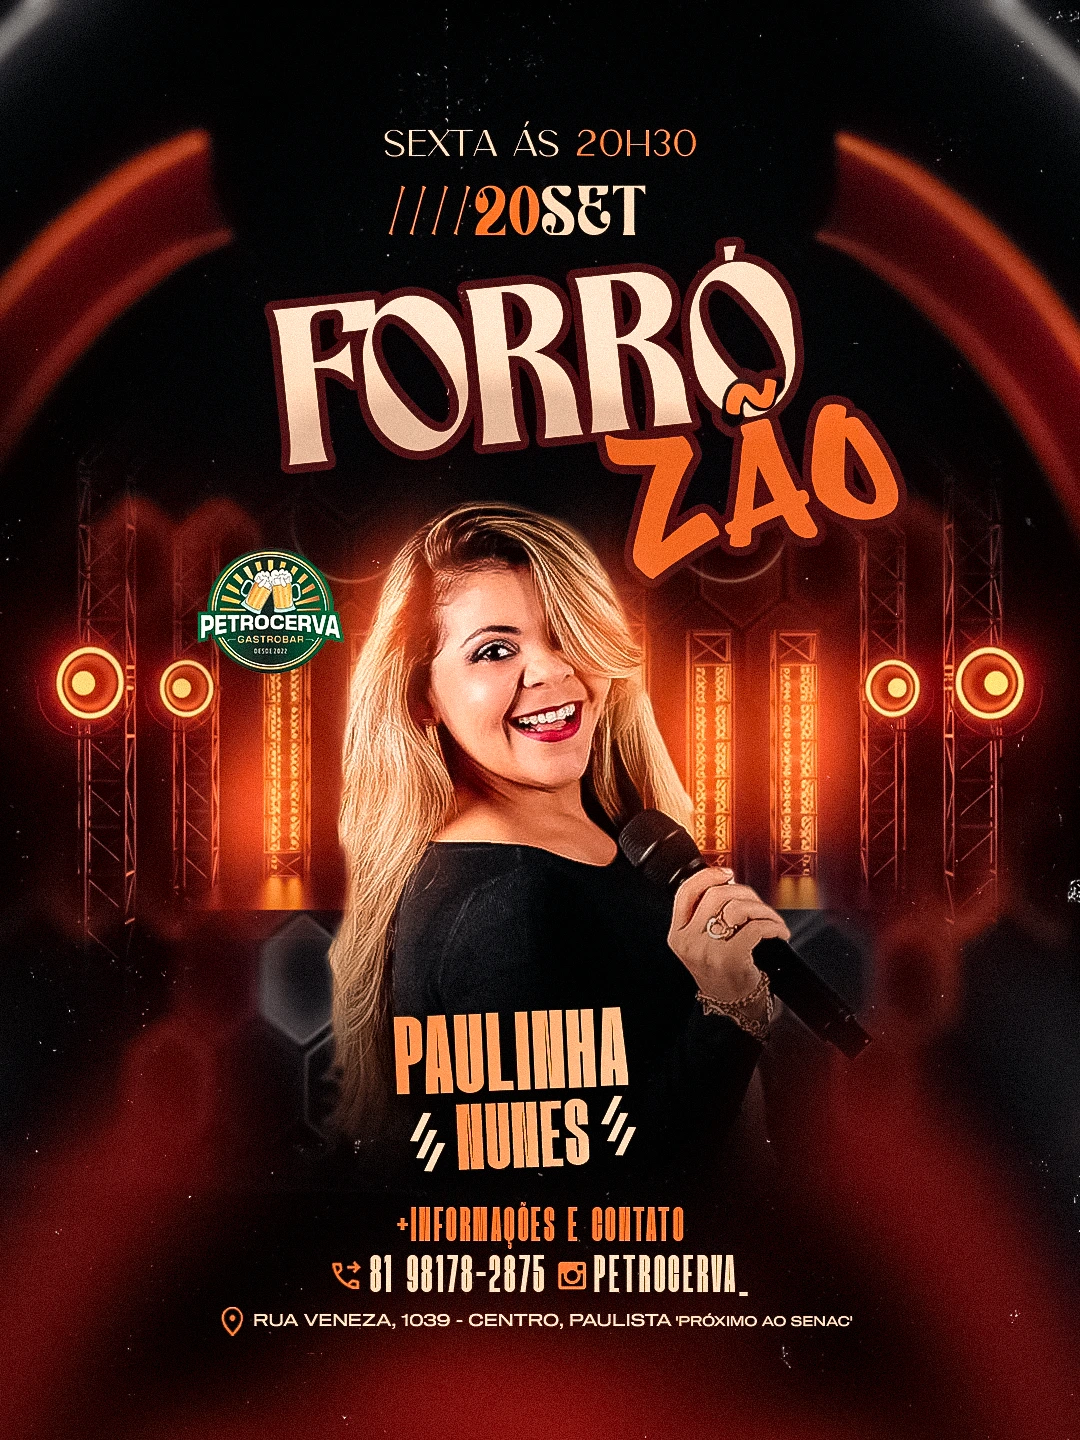
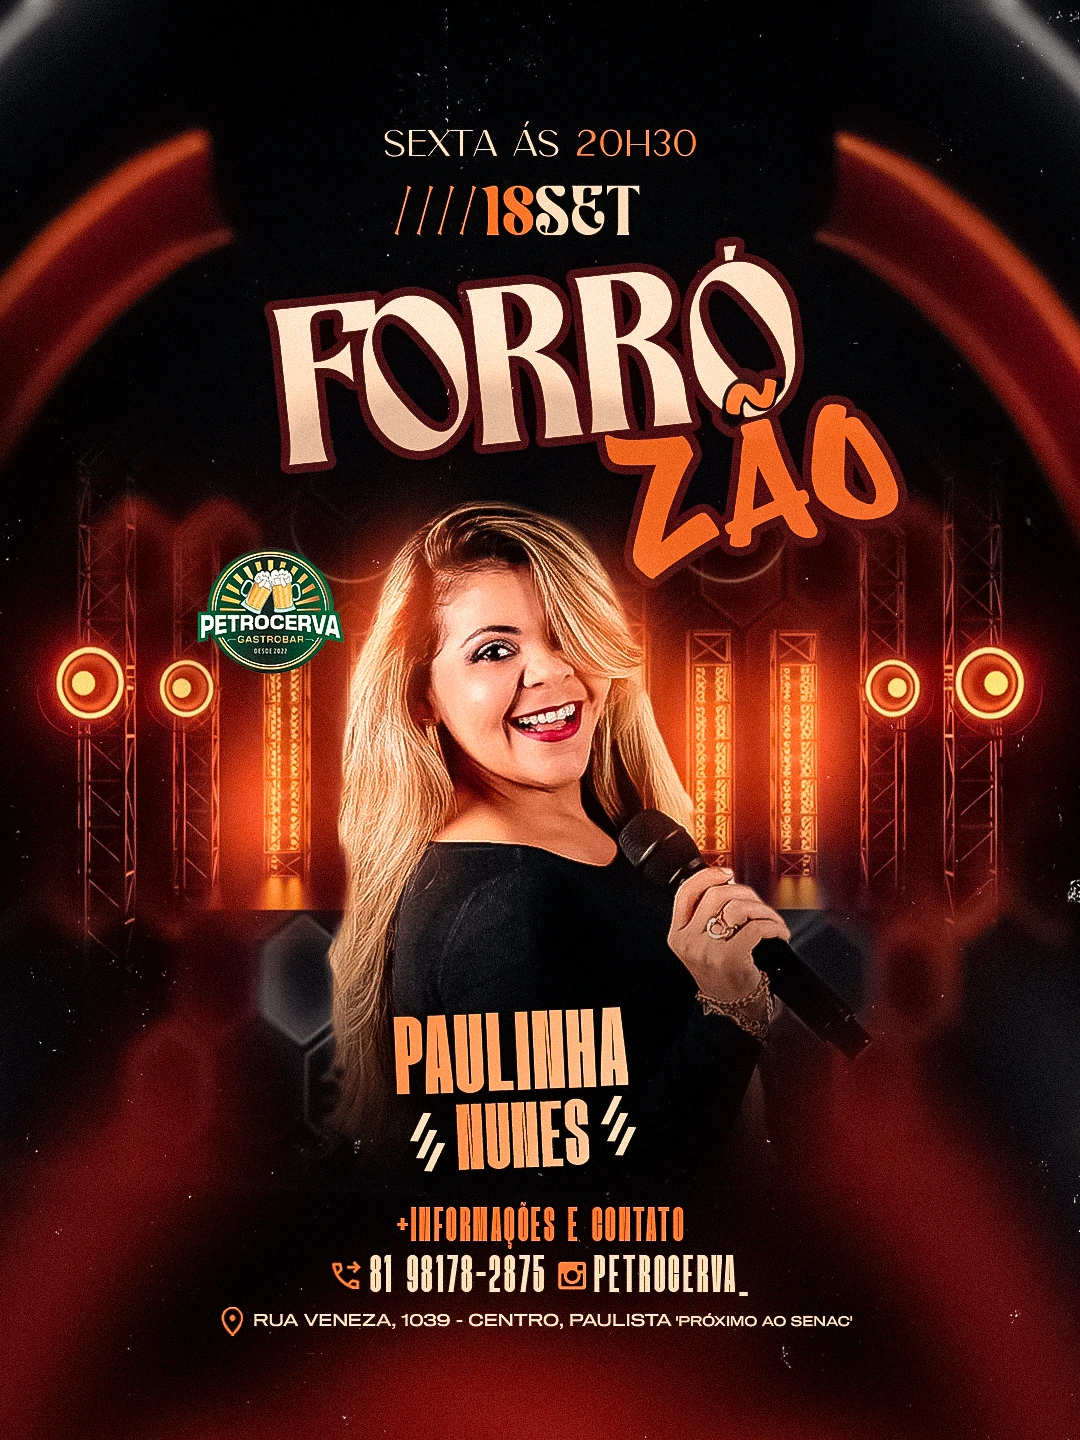
feat: atualizar programação com novas datas e imagens para eventos

Changed region(s): [[0.3667, 0.125, 0.6111, 0.1875]]

diff --git a/index.html b/index.html
@@ -189,7 +189,7 @@
                   <article class="atracao">
                     <div class="atracao__moldura-imagem">
                       <img class="atracao__imagem" src="src/img/programacao-sex.webp"
-                        alt="Cartaz do Forrozão com Paulinha Nunes, sexta-feira 20 de setembro às 20h30 no Petrocerva Gastrobar"
+                        alt="Cartaz do Forrozão com Paulinha Nunes, sexta-feira 18 de setembro às 20h30 no Petrocerva Gastrobar"
                         width="1080" height="1440" fetchpriority="high">
 
                       <button type="button"
@@ -211,7 +211,7 @@
                       </button>
                     </div>
                     <div class="atracao__informacoes">
-                      <p class="atracao__data">Sexta-feira · 20 de setembro</p>
+                      <p class="atracao__data">Sexta-feira · 18 de setembro</p>
                       <h3 class="atracao__evento">Forrozão</h3>
                       <p class="atracao__artista">Paulinha Nunes</p>
                       <div class="atracao__meta">
@@ -229,7 +229,7 @@
                   <article class="atracao">
                     <div class="atracao__moldura-imagem">
                       <img class="atracao__imagem" src="src/img/programacao-sab.webp"
-                        alt="Cartaz do Bregão da Belly com Belly Luna, sábado 21 de setembro às 20h30 no Petrocerva Gastrobar"
+                        alt="Cartaz do Bregão da Belly com Belly Luna, sábado 19 de setembro às 20h30 no Petrocerva Gastrobar"
                         width="1080" height="1440" loading="lazy">
 
                       <button type="button"
@@ -251,7 +251,7 @@
                       </button>
                     </div>
                     <div class="atracao__informacoes">
-                      <p class="atracao__data">Sábado · 21 de setembro</p>
+                      <p class="atracao__data">Sábado · 19 de setembro</p>
                       <h3 class="atracao__evento">Bregão da Belly</h3>
                       <p class="atracao__artista">Belly Luna</p>
                       <div class="atracao__meta">
@@ -269,7 +269,7 @@
                   <article class="atracao">
                     <div class="atracao__moldura-imagem">
                       <img class="atracao__imagem" src="src/img/programacao-dom.webp"
-                        alt="Cartaz do Pagodeou Petrocerva com o grupo Samba pra Gente, domingo 22 de setembro às 18h30 no Petrocerva Gastrobar"
+                        alt="Cartaz do Pagodeou Petrocerva com o grupo Samba pra Gente, domingo 20 de setembro às 18h30 no Petrocerva Gastrobar"
                         width="1080" height="1440" loading="lazy">
 
                       <button type="button"
@@ -291,7 +291,7 @@
                       </button>
                     </div>
                     <div class="atracao__informacoes">
-                      <p class="atracao__data">Domingo · 22 de setembro</p>
+                      <p class="atracao__data">Domingo · 20 de setembro</p>
                       <h3 class="atracao__evento">Pagodeou Petrocerva</h3>
                       <p class="atracao__artista">Samba pra Gente</p>
                       <div class="atracao__meta">

diff --git a/programacao.html b/programacao.html
@@ -45,11 +45,11 @@
               aria-label="1 de 3" aria-hidden="false">
               <button type="button" class="slide__figura" data-ampliar aria-haspopup="dialog">
                 <img src="src/img/programacao-sex.webp"
-                  alt="Cartaz do Forrozão com Paulinha Nunes, sexta-feira 20 de setembro às 20h30 no Petrocerva Gastrobar"
+                  alt="Cartaz do Forrozão com Paulinha Nunes, sexta-feira 18 de setembro às 20h30 no Petrocerva Gastrobar"
                   width="1080" height="1440" draggable="false" fetchpriority="high" decoding="async">
               </button>
               <div class="slide__info">
-                <p class="slide__dia">Sexta-feira · 20 de setembro</p>
+                <p class="slide__dia">Sexta-feira · 18 de setembro</p>
                 <p class="slide__evento">Forrozão</p>
                 <p class="slide__artista">Paulinha Nunes</p>
                 <div class="slide__meta">
@@ -76,11 +76,11 @@
               aria-label="2 de 3" aria-hidden="true">
               <button type="button" class="slide__figura" data-ampliar aria-haspopup="dialog">
                 <img src="src/img/programacao-sab.webp"
-                  alt="Cartaz do Bregão da Belly com Belly Luna, sábado 21 de setembro às 20h30 no Petrocerva Gastrobar"
+                  alt="Cartaz do Bregão da Belly com Belly Luna, sábado 19 de setembro às 20h30 no Petrocerva Gastrobar"
                   width="1080" height="1440" draggable="false" loading="lazy" decoding="async">
               </button>
               <div class="slide__info">
-                <p class="slide__dia">Sábado · 21 de setembro</p>
+                <p class="slide__dia">Sábado · 19 de setembro</p>
                 <p class="slide__evento">Bregão da Belly</p>
                 <p class="slide__artista">Belly Luna</p>
                 <div class="slide__meta">
@@ -107,11 +107,11 @@
               aria-label="3 de 3" aria-hidden="true">
               <button type="button" class="slide__figura" data-ampliar aria-haspopup="dialog">
                 <img src="src/img/programacao-dom.webp"
-                  alt="Cartaz do Pagodeou Petrocerva com o grupo Samba pra Gente, domingo 22 de setembro às 18h30 no Petrocerva Gastrobar"
+                  alt="Cartaz do Pagodeou Petrocerva com o grupo Samba pra Gente, domingo 20 de setembro às 18h30 no Petrocerva Gastrobar"
                   width="1080" height="1440" draggable="false" loading="lazy" decoding="async">
               </button>
               <div class="slide__info">
-                <p class="slide__dia">Domingo · 22 de setembro</p>
+                <p class="slide__dia">Domingo · 20 de setembro</p>
                 <p class="slide__evento">Pagodeou Petrocerva</p>
                 <p class="slide__artista">Samba pra Gente</p>
                 <div class="slide__meta">
